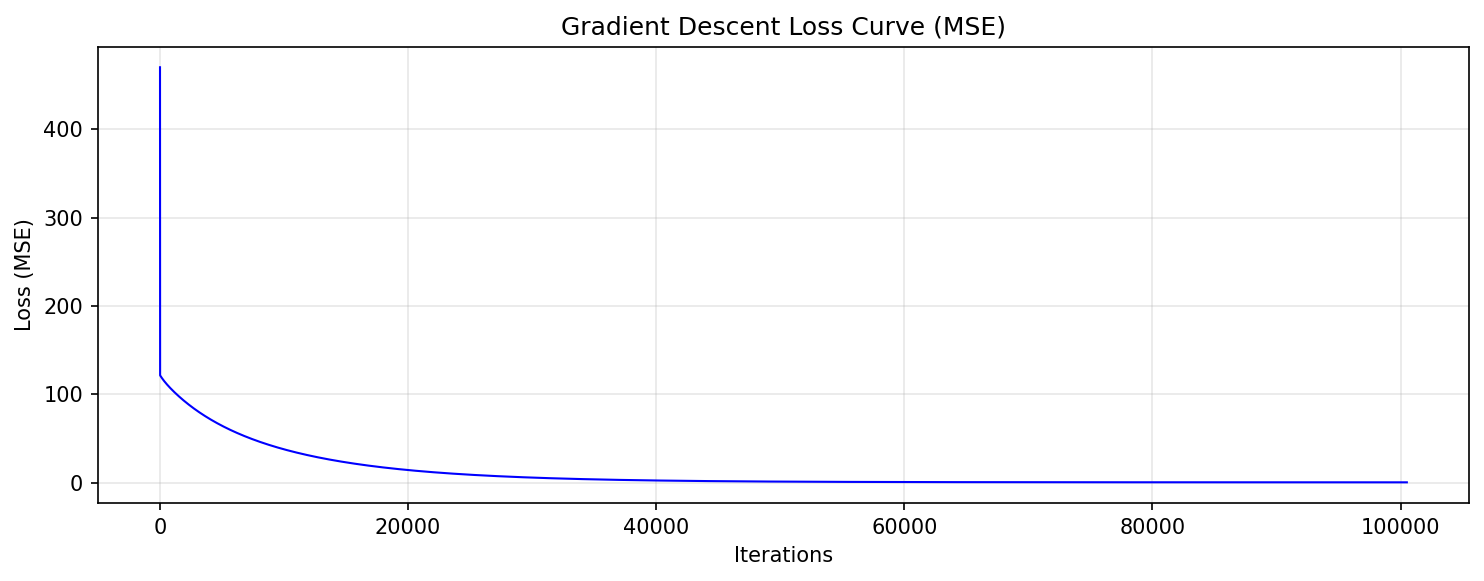
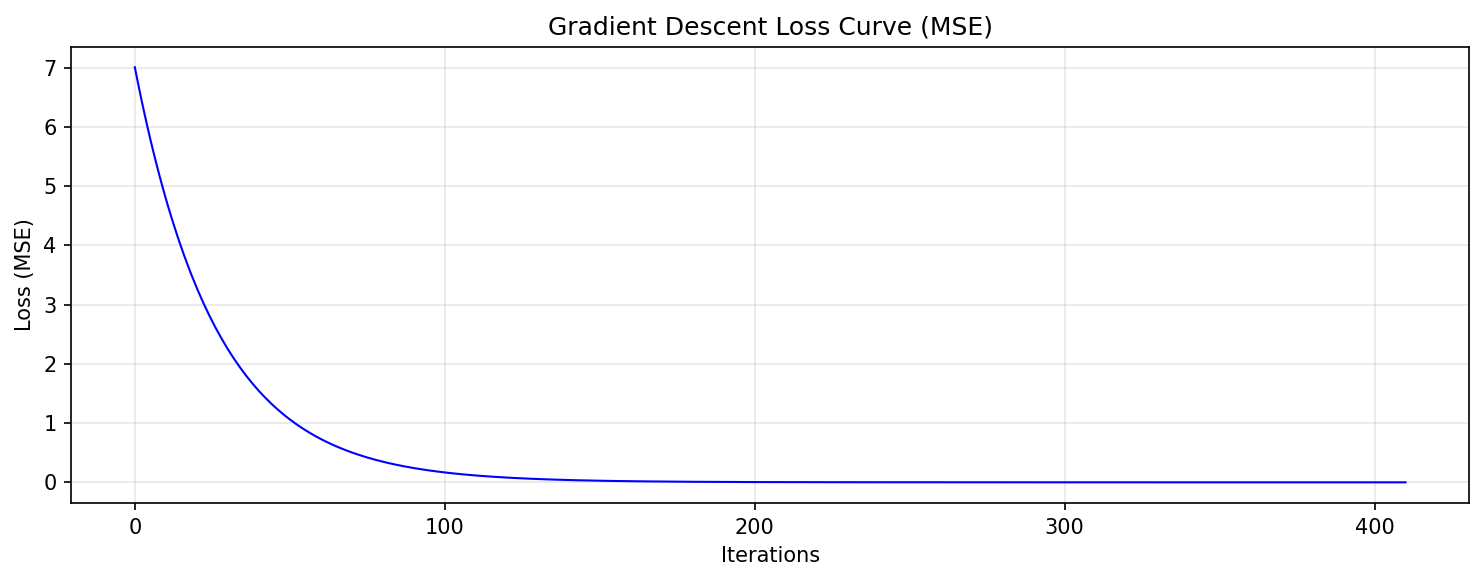
go

diff --git a/content/docs/linear-regression/4-gd.md b/content/docs/linear-regression/4-gd.md
@@ -1,14 +1,14 @@
 ---
 title: "梯度下降"
 weight: 40
-draft: true
+draft: false
 ---
 <!-- Copyright © 2026 Techunder (Guanhua Liu) | All Rights Reserved | https://techunder.tech | Email: [email redacted] -->
 {{< katex />}}
 <div class="page-title">线性回归：梯度下降</div>
 <div class="page-info">
    <span class="original-tag">原创</span>
-  发布时间：2026-02-05 | 更新时间：2026-02-25
+  发布时间：2026-02-25 | 更新时间：2026-02-25
 </div>
 
 计算机学习数据中隐藏的规律的方法，是通过最小化预测值与实际值之间的误差来实现的。
@@ -68,6 +68,8 @@ J(\boldsymbol{\theta})
 得到的梯度$\boldsymbol{g}$是一个向量（shape $d \times 1$），其中的每一个值都分别代表$w_1$ ~ $w_d$的梯度。
 
 # 代码实现
+在[问题与建模](../2-model/)一篇中，我们提供了[数据集](/attachments/docs/linear-regression/lifespan_data_full.csv)，现在请把它下载到本地。
+
 ```python
 # Using Gradient Descent (GD) to Solve Linear Regression
 
@@ -93,8 +95,16 @@ y0 = df['actual_lifespan'].values
 X = X0[0:900]
 y = y0[0:900]
 
+# 标准化特征值和目标值
+X_mean = X.mean(axis=0)
+X_std = X.std(axis=0)
+X_normalized = (X - X_mean) / X_std
+y_mean = y.mean()
+y_std = y.std()
+y_normalized = (y - y_mean) / y_std
+
 # ===================== 第三步：梯度下降法求解权重 =====================
-def gradient_descent(X, y, learning_rate=0.0001, epochs=150000, tol=1e-6):
+def gradient_descent(X, y, learning_rate=0.01, epochs=300000, tol=1e-7):
     """
     梯度下降法求解线性回归参数
     参数：
@@ -112,8 +122,8 @@ def gradient_descent(X, y, learning_rate=0.0001, epochs=150000, tol=1e-6):
     loss_history = []  # 记录损失变化
     
     for epoch in range(epochs):
-        # 前向预测：y_pred = b + X·w
-        y_pred = b + np.dot(X, w)
+        # 前向预测：y_pred = X·w + b
+        y_pred = np.dot(X, w) + b
         # 计算均方误差损失
         loss = np.mean((y_pred - y) ** 2)
         loss_history.append(loss)
@@ -134,12 +144,17 @@ def gradient_descent(X, y, learning_rate=0.0001, epochs=150000, tol=1e-6):
     return b, w, loss_history
 
 # 求解梯度下降解
-b, w, loss_history = gradient_descent(X, y, learning_rate=0.0001, epochs=150000)
+b_norm, w_norm, loss_history = gradient_descent(X_normalized, y_normalized, learning_rate=0.01, epochs=150000)
+
+# 将标准化空间的权重转换回原始空间以方便与标准答案做对比
+w = w_norm * y_std / X_std
+b = y_mean - np.dot(w_norm * y_std / X_std, X_mean) + b_norm * y_std
+
 print("\n===== Linear Regression Solution =====")
 print(f"Intercept (bias): {b:.4f}")
 print(f"Weights: {np.round(w, 4)}")
 
-# 绘制梯度下降损失曲线（科普可视化）
+# 绘制梯度下降损失曲线
 plt.figure(figsize=(10, 4))
 plt.plot(loss_history, color='blue', linewidth=1)
 plt.title('Gradient Descent Loss Curve (MSE)', fontsize=12)
@@ -147,12 +162,36 @@ plt.xlabel('Iterations', fontsize=10)
 plt.ylabel('Loss (MSE)', fontsize=10)
 plt.grid(alpha=0.3)
 plt.tight_layout()
-plt.savefig('lr-4-gd.png', dpi=150, bbox_inches='tight')
+plt.savefig('gradient-descent.png', dpi=150, bbox_inches='tight')
 plt.show()
-print("Image was saved as 'lr-4-gd.png'")
+print("Image was saved as 'gradient-descent.png'")
 ```
 
-注意到计算梯度的代码
+关键代码解释如下：
+
+## 值标准化
+
+因为输入的字段（特征值和目标值）之间数值范围差异很大，而机器需要综合考虑它们的效果，所以需要先标准化（Normalized）特征值和目标值才能进行计算，避免个别大值字段影响独大。
+```python
+# 计算梯度
+# 标准化特征值和目标值
+X_mean = X.mean(axis=0)
+X_std = X.std(axis=0)
+X_normalized = (X - X_mean) / X_std
+y_mean = y.mean()
+y_std = y.std()
+y_normalized = (y - y_mean) / y_std
+```
+
+推理时有两种方式：
+
+1. 保持标准化：对新输入 X 也做相同标准化，直接用 w_norm, b_norm 预测
+2. 转换回原始空间：用 w_orig, b_orig 直接对原始 X 预测
+
+两种方式数学上等价。
+
+## 梯度计算
+计算梯度的代码
 ```python
 # 计算梯度
 dw = (2 / n_samples) * np.dot(X.T, (y_pred - y))  # 权重梯度
@@ -163,19 +202,49 @@ db = (2 / n_samples) * np.sum(y_pred - y)         # 截距梯度
 \boldsymbol{g}
 = \frac{2}{N} \sum_{i=1}^{N} (\boldsymbol{x}_i \boldsymbol{\theta} - y_i) \boldsymbol{x}_i \\
 ```
-是一致的，都是每一个数据样本的特征值$\times$（预测值与真实值的差）再求和。
+是一致的，都是每一个数据样本的特征值 $\times$（预测值与真实值的差）再求和。
 
-程序输出：
+
+## 权重转换回原始空间
+```python
+# 将标准化空间的权重转换回原始空间以方便与标准答案做对比
+w = w_norm * y_std / X_std
+b = y_mean - np.dot(w_norm * y_std / X_std, X_mean) + b_norm * y_std
+```
+权重转换回原始空间的公式推导过程如下：
+
+标准化变换为：
+- X_norm = (X - X_mean) / X_std
+- y_norm = (y - y_mean) / y_std
+
+在标准化空间中学到的关系是：
+
+y_norm = X_norm · w_norm + b_norm
+
+将标准化公式代入：
+
+(y - y_mean) / y_std = ((X - X_mean) / X_std) · w_norm + b_norm
+
+两边乘以 y_std 并展开：
+
+y - y_mean = X · (w_norm / X_std) · y_std - X_mean · (w_norm / X_std) · y_std + b_norm · y_std
+
+整理成 y = X · w_orig + b_orig 的形式便得到：
+
+- w_orig = w_norm * (y_std / X_std)
+- b_orig = y_mean - (X_mean · w_norm) * (y_std / X_std) + b_norm * y_std   
+
+## 程序输出
+
 ```text
-梯度下降在第100511轮收敛！
+梯度下降在第410轮收敛！
 
 ===== Linear Regression Solution =====
-Intercept (bias): 1.3568
-Weights: [  0.4948   6.0379   0.8301 -14.781    8.9308   1.4749   7.0404]
-Image was saved as 'gradient-descent.png'
+Intercept (bias): 9.9104
+Weights: [  0.4009   5.9924   0.8038 -14.9764   8.9833   1.2996   7.0084]
 ```
 ![训练过程损失变化](/images/docs/linear-regression/gradient-descent.png)
 
-最后的学习结果并没有与[标准答案](../2-model/#标准答案)的一致，这体现了梯度下降的一个特点，**相对接近而不是精确还原**。
+可以看到与[标准答案](../2-model/#标准答案)非常接近。
 
-与前的最小二乘法相比，梯度下降法的优势在于它可以处理大规模数据集，特别地当数据集包含噪声或异常值时，梯度下降法更稳定，但梯度下降过程中可能会落入局部最优解（山腰上的某个坑洼区域）而止步不前，此时可以调整参数$\boldsymbol{\theta}$的初始值或学习率$\epsilon_k$的大小多次尝试。
+与前的最小二乘法相比，梯度下降法的优势在于它可以处理大规模数据集，特别地当数据集包含噪声或异常值时，梯度下降法更稳定，但梯度下降过程中可能会落入**局部最优解**（山腰上的某个坑洼区域）而止步不前，此时可以调整参数$\boldsymbol{\theta}$的初始值（空降到不同的位置重新开始下破），或调大学习率$\epsilon_k$（调大迈步幅度）多次尝试。

diff --git a/content/_index.md b/content/_index.md
@@ -17,9 +17,5 @@ bookToC: false
 本网站不收集任何用户个人信息，也不使用任何第三方服务来分析用户行为。内容主要为个人原创，不涉及任何商业用途。
 
 ## 📢 最近更新
-- [Agent，工程的起航](/docs/ai-agent-intro/2-agent/)
-- [LLM，智力的源头](/docs/ai-agent-intro/1-llm/)
+- [梯度下降](/docs/linear-regression/4-gd/)
 - [AI Agent 导读](/docs/ai-agent-intro/)
-- [Embedding](/docs/embedding/)
-- [Transformer：自注意力机制](/docs/transformer/1-self-attention/)
-

diff --git a/content/docs/linear-regression/_index.md b/content/docs/linear-regression/_index.md
@@ -17,4 +17,5 @@ bookCollapseSection: true
 1. [基本概念](/docs/linear-regression/1-concept/)
 2. [问题与建模](/docs/linear-regression/2-model/)
 3. [最小二乘法](/docs/linear-regression/3-lsm/)
+4. [梯度下降](/docs/linear-regression/4-gd/)
 